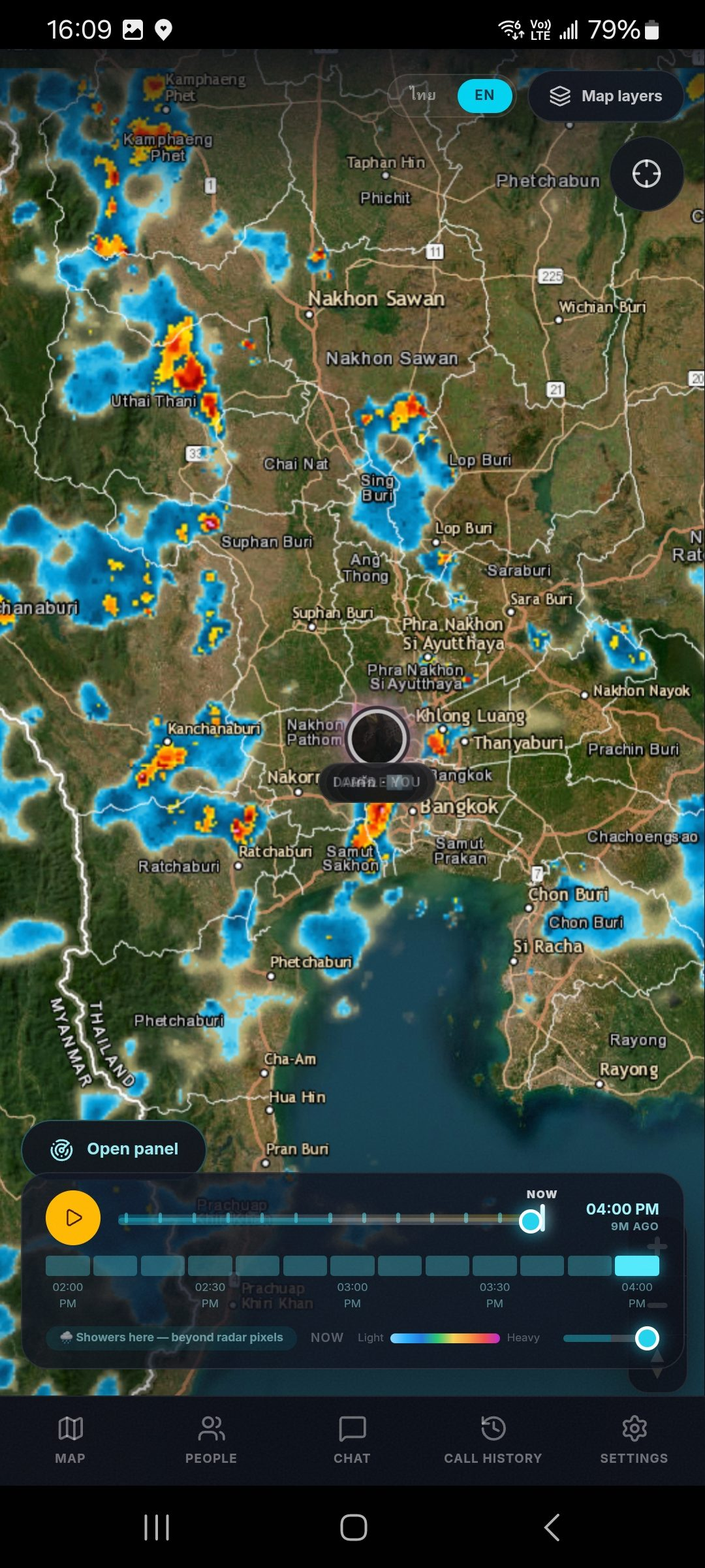
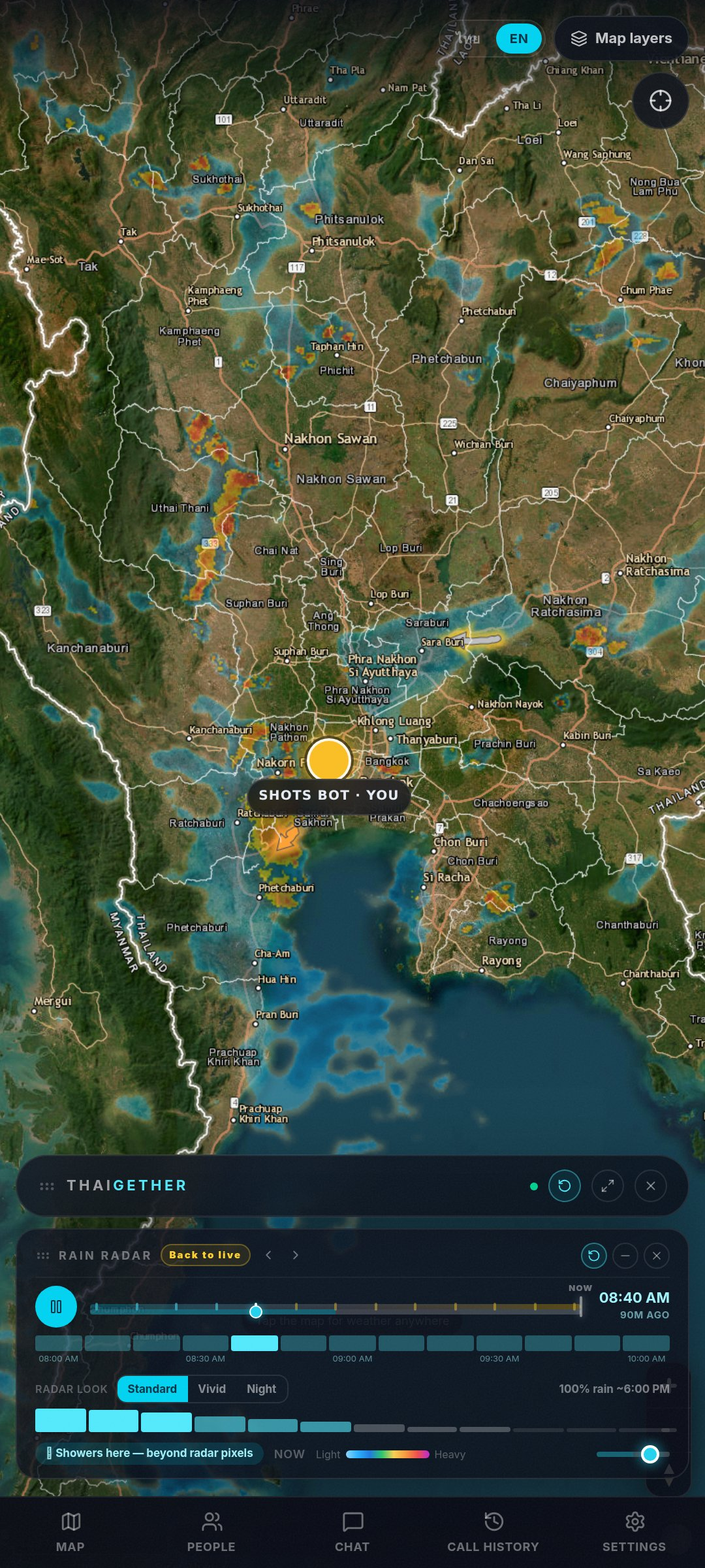
Showcase: fresh radar hero (new timeline UI) + live TomTom traffic shot; traffic chip

diff --git a/index.html b/index.html
@@ -683,7 +683,7 @@ html.th .eyebrow{letter-spacing:.05em}
             <div><b>Thaigether</b><small>Couples &amp; close circles — live map, chat, HD calls</small></div>
             <span class="app-go">Case study ↓</span>
           </div>
-          <div class="app-chips"><span>🛰 1 s live presence</span><span>📞 rings above lock screen</span><span>🌦 rain radar vault</span><span>💬 voice-note chat</span></div>
+          <div class="app-chips"><span>🛰 1 s live presence</span><span>📞 rings above lock screen</span><span>🌦 rain radar vault</span><span>🚦 live traffic</span><span>💬 voice-note chat</span></div>
         </a>
         <a class="app-card app-card--ts" href="index.html#talatsuite" aria-label="TalatSuite case study">
           <div class="app-top">
@@ -734,6 +734,7 @@ html.th .eyebrow{letter-spacing:.05em}
 
     <div class="gallery reveal" aria-label="Thaigether screens">
       <figure class="shotf"><img src="assets/thaigether/radar.jpg" alt="Thaigether live rain radar over Thailand with clock-time timeline" loading="lazy"><figcaption>Live rain radar · <em>real screen</em></figcaption></figure>
+      <figure class="shotf"><img src="assets/thaigether/shot-traffic.jpg" alt="Thaigether live TomTom traffic over Bangkok with rain radar timeline" loading="lazy"><figcaption>Live traffic · <em>real screen</em></figcaption></figure>
       <figure class="shotf"><img src="assets/thaigether/shot-people.jpg" alt="Thaigether People screen showing live presence, distance and battery honesty" loading="lazy"><figcaption>People · live presence</figcaption></figure>
       <figure class="shotf"><img src="assets/thaigether/shot-chat.jpg" alt="Thaigether chat with photos, voice notes, reactions and seen receipts" loading="lazy"><figcaption>Chat · voice notes &amp; reactions</figcaption></figure>
       <figure class="shotf"><img src="assets/thaigether/shot-call.jpg" alt="Thaigether incoming video call erupting above the lock screen" loading="lazy"><figcaption>Incoming call · <em>above lock screen</em></figcaption></figure>
